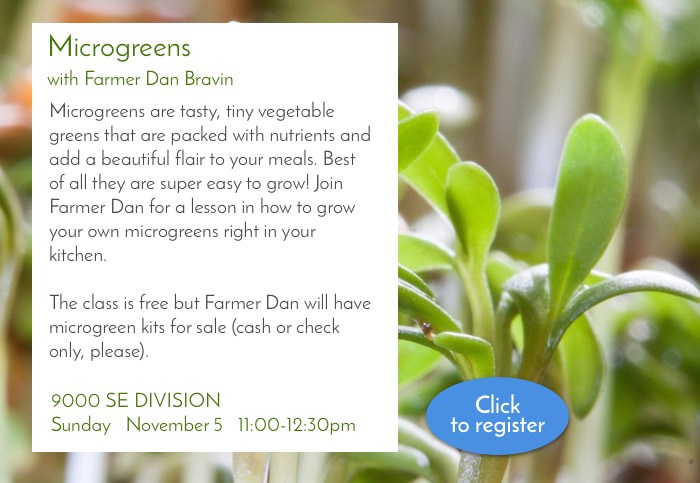
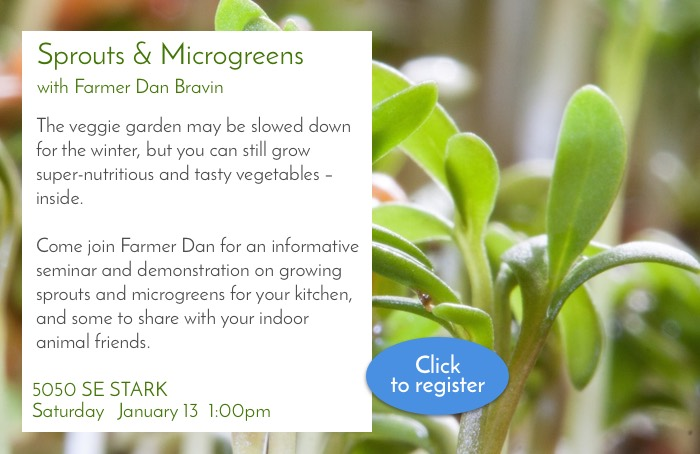
jan 3

diff --git a/current-news.html b/current-news.html
@@ -143,7 +143,7 @@
                                                                                         </div>
 
                                                                                         <div style="text-align: center; margin: 10px 0; padding: 0;font-family: arial,helvetica,sans-serif;font-size: 12px;">
-                                                                                            December 21, 2017
+                                                                                            January 3, 2018
                                                                                         </div>
                                                                                     </td>
                                                                                 </tr>
@@ -168,14 +168,14 @@
                                                                                 <tr>
                                                                                     <td style="border: 0px solid transparent; padding: 10px; color: #555555; font-family: Arial, Helvetica, sans-serif; font-size: 11px;">
                                                                                         <div class="noWrapImageWrapper" style="text-align: center; margin:0; padding: 0;">
-                                                                                            <a href="http://portlandnursery.com"><img src="http://portlandnursery.com/newsletter/images/happyholidays.jpg" alt="Container" style="margin: 0px; display: inline;" /></a>
+                                                                                            <a href="http://portlandnursery.com"><img src="http://portlandnursery.com/newsletter/images/seedstarting.jpg" alt="Container" style="margin: 0px; display: inline;" /></a>
                                                                                         </div>
                                                                                     </td>
                                                                                 </tr>
 
                                                                                 <tr>
                                                                                     <td style="border: 0px solid transparent; padding: 0; color: #555555;width: 100%;">
-                                                                                        <div class="noWrapImageWrapper" style="text-align: center; margin: 20px 0 0; padding: 0;"><img alt="" src="http://portlandnursery.com/newsletter/images/titles/happyholidays.jpg" style="margin: 0;display: inline;" /></div>
+                                                                                        <div class="noWrapImageWrapper" style="text-align: center; margin: 20px 0 0; padding: 0;"><img alt="" src="http://portlandnursery.com/newsletter/images/titles/seedstarting.jpg" style="margin: 0;display: inline;" /></div>
                                                                                     </td>
                                                                                 </tr>
                                                                             </tbody>
@@ -190,9 +190,20 @@
 																			<tr>
                                                                                     <td style="border: 0px solid transparent; padding: 0 20px; color: #555555;width: 100%;">
 
-											                                     <div style="font-family:'Josefin Sans',Arial, Helvetica, sans-serif;font-size:20px;font-weight: 300;color:#555555;line-height:1.5;padding:0 10px;text-align: left; margin: 15px 0;">During this holiday season - whether it is Happy Hannukah, Merry Christmas or Happy Holidays, we always wish the very best for our valued shoppers. Your love of plants is what we thrive on and we promise you the very best in all things plants in 2018.</div>
+											                                    <div style="font-family:'Josefin Sans',Arial, Helvetica, sans-serif;font-size:20px;font-weight: 300;color:#555555;line-height:1.5;padding:0 10px;text-align:center; margin: 0 0 15px 0;">By Corina Reynolds Stearns, Portland Nursery</div>
 
-											                                     <div style="font-family:'Josefin Sans',Arial, Helvetica, sans-serif;font-size:20px;font-weight: 300;color:#555555;line-height:1.5;padding:0 10px;text-align: left; margin: 15px 0;">And let's not forget, today is the Winter Solstice and spring is on its way!</div>
+    <div style="font-family:'Josefin Sans',Arial, Helvetica, sans-serif;font-size:20px;font-weight: 300;color:#555555;line-height:1.5;padding:0 10px;text-align: left; margin: 15px 0;">It’s the middle of winter, but we gardeners are itching to get digging. It’s easy to get excited when all the spring seed catalogs start arriving! But how practical is growing from seed vs. buying starts? It depends on how much time and space you want to dedicate. Growing from seed can save lots of money in the long run, but it requires a bit more work. </div>
+
+<div style="font-family:'Josefin Sans',Arial, Helvetica, sans-serif;font-size:20px;font-weight: 300;color:#555555;line-height:1.5;padding:0 10px;text-align: left; margin: 15px 0;">Some plants are easier to grow than others from seed. Some take a long time to germinate, or need to be grown indoors, under lights, until outside temps are warm enough to transplant. Seed packets will tell you if a seed must be started indoors or if it prefers to be direct-seeded into the garden. The instructions will often tell you to start seeds a certain number of weeks before the last frost date (which, for us, is around mid-April). For example, tomatoes and peppers, which take a long time to reach transplant size and require steady, warm temps, are started 6 to 8 weeks before last frost. Alternatively, plants like cucumbers and green beans grow very quickly, but do not like to be transplanted, so they are sown directly into the ground around late May, when the weather is warming up. Just read the seed packets—they’ll tell you what the plant wants.</div>
+
+<div style="font-family:'Josefin Sans',Arial, Helvetica, sans-serif;font-size:20px;font-weight: 300;color:#555555;line-height:1.5;padding:0 10px;text-align: left; margin: 15px 0;">Use potting soil to start seeds (my favorite is Edna’s Best brand), in recycled nursery pots or yogurt containers (poke holes in the bottom for drainage). You can buy inexpensive drip trays or seed-starting setups, too. It’s a good idea to use seeds that are no more than 2 years old. Plant 5 seeds for every one plant you desire. When the seedlings are all germinated, carefully thin out all but the healthiest-looking start. Once the plants have two sets of leaves, fertilize with an organic liquid fertilizer (such as Dr. Earth or fish emulsion), diluted to half-strength, once a week. </div>
+
+<div style="font-family:'Josefin Sans',Arial, Helvetica, sans-serif;font-size:20px;font-weight: 300;color:#555555;line-height:1.5;padding:0 10px;text-align: left; margin: 15px 0;">To start seeds inside, you must have a light source. Window light is not sufficient. I use simple 4 foot shop light fixtures with 2 fluorescent tubes—one warm-spectrum light (it may say “kitchen & bath”), and one cool-spectrum (“office”). Or buy tubes that are specifically listed for plants. Hang the lights over a shelf or table with chains so that you can raise the lights as the plants grow. Unless you are using very high-output lights, keep the light no more than 4” above the plants. The plants should not look leggy or like they are reaching toward the light. </div>
+
+<div style="font-family:'Josefin Sans',Arial, Helvetica, sans-serif;font-size:20px;font-weight: 300;color:#555555;line-height:1.5;padding:0 10px;text-align: left; margin: 15px 0;">Once the weather is warm enough, start to harden off seedlings. This means gradually exposing them to outdoor temperature and light conditions. Put them in a protected, shady spot in the daytime, and bring them back in at night, slowly exposing them to more light, exposure, and cooler evening temps. Depending on the weather, 2 weeks is usually an adequate amount of time for the plants to get used to harsher outdoor conditions, until they are finally ready to transplant. </div>
+
+
+<div style="font-family:'Josefin Sans',Arial, Helvetica, sans-serif;font-size:20px;font-weight: 300;color:#555555;line-height:1.5;padding:0 10px;text-align: left; margin: 15px 0;">Growing your own starts is so rewarding. Have fun nurturing those plant babies!</div>
 
 											                                  </td>
                                                                                 </tr>
@@ -228,9 +239,14 @@
                                                     <div style="align:center;" class="">
                                                         <table border="0" cellpadding="0" cellspacing="0" width="100%" style="table-layout: fixed;">
                                                             <tbody>
+	                                                          <tr>
+                                                                    <td>
+                                                                        <div class="noWrapImageWrapper" style="text-align: center; margin: 0; padding: 10px 20px;"> <img alt="" src="http://portlandnursery.com/newsletter/images/titles/seedstartingkits.jpg" style="margin: 0px;display: inline;" /></div>
+                                                                    </td>
+                                                                </tr>
                                                                 <tr>
                                                                     <td>
-                                                                        <div class="noWrapImageWrapper" style="text-align: center; margin: 0; padding: 10px 20px;"> <img alt="" src="http://portlandnursery.com/newsletter/images/hoursdec2017.jpg" style="margin: 0px;display: inline;" /></div>
+                                                                        <div class="noWrapImageWrapper" style="text-align: center; margin: 0; padding: 10px 20px;"> <img alt="" src="http://portlandnursery.com/newsletter/images/seedstartingkits.jpg" style="margin: 0px;display: inline;" /></div>
                                                                     </td>
                                                                 </tr>
                                                             </tbody>
@@ -255,6 +271,57 @@
                                                     </div>
                                                 </td>
                                             </tr><!-- End Divider Row -->
+                                             <!-- ==================== Divider Row ===================== -->
+                                            <tr>
+                                                <td>
+                                                    <div style="align:center;" class="">
+                                                        <table border="0" cellpadding="0" cellspacing="0" width="100%" style="table-layout: fixed;">
+                                                            <tbody>
+	                                                          <tr>
+                                                                    <td>
+                                                                        <div class="noWrapImageWrapper" style="text-align: center; margin: 0; padding: 10px 20px;"> <img alt="" src="http://portlandnursery.com/newsletter/images/titles/indoorplantingmonth.jpg" style="margin: 20px 0;display: inline;" /></div>
+                                                                    </td>
+                                                                </tr>
+                                                            </tbody>
+                                                        </table>
+                                                    </div>
+                                                </td>
+                                            </tr><!-- End Divider Row -->
+                                                                                      <!-- ==================== Divider Row ===================== -->
+
+                                            <tr>
+                                                <td>
+                                                    <div style="align:center;" class="">
+                                                        <table border="0" cellpadding="0" cellspacing="0" width="100%" style="table-layout: fixed;">
+                                                            <tbody>
+                                                                <tr>
+                                                                    <td>
+                                                                        <div class="noWrapImageWrapper" style="text-align: center; margin: 0; padding: 10px 20px;"><img alt="" src="http://portlandnursery.com/newsletter/images/houseplantsale2018b.jpg" style="margin: 0px;display: inline;" /></div>
+                                                                    </td>
+                                                                </tr>
+                                                            </tbody>
+                                                        </table>
+                                                    </div>
+                                                </td>
+                                            </tr><!-- End Divider Row -->
+                                            <!-- ==================== Divider Row ===================== -->
+
+                                            <tr>
+                                                <td style="border: 0px solid transparent; padding: 0; color: #555555;width: 100%;">
+                                                    <div style="text-align:center;" class="">
+                                                        <table border="0" cellpadding="0" cellspacing="0" width="100%" style="table-layout: fixed;">
+                                                            <tbody>
+                                                                <tr>
+                                                                    <td style="border: 0px solid transparent; padding: 0 20px; color: #555555;width: 100%;">
+                                                                        <div class="noWrapImageWrapper" style="border-top:1px solid #CCC;text-align: center; margin: 20px 0; padding: 0;"><img alt="" src="http://portlandnursery.com/images-layout/spacer_CCCCCC.gif" style="margin: 0;display: inline;" /></div>
+                                                                    </td>
+                                                                </tr>
+                                                            </tbody>
+                                                        </table>
+                                                    </div>
+                                                </td>
+                                            </tr><!-- End Divider Row -->
+
                                         <!-- ==================== Divider Row ===================== -->
 
                                             <tr>
@@ -264,7 +331,7 @@
                                                             <tbody>
                                                                 <tr>
                                                                     <td>
-                                                                        <div class="noWrapImageWrapper" style="text-align: center; margin: 0; padding: 10px 20px;">   <a href="http://portlandnursery.wufoo.com/forms/zk8uf2f0j5tbpk/" onclick="window.open(this.href,  null, 'height=483, =680, toolbar=0, location=0, status=1, scrollbars=1, resizable=1'); return false"><img alt="" src="http://portlandnursery.com/newsletter/images/classes/earlyvegetables.jpg" style="margin: 0px;display: inline;" /></a></div>
+                                                                        <div class="noWrapImageWrapper" style="text-align: center; margin: 0; padding: 10px 20px;">  <a href="http://portlandnursery.wufoo.com/forms/zrabv3y038df8s/" onclick="window.open(this.href,  null, 'height=483, =680, toolbar=0, location=0, status=1, scrollbars=1, resizable=1'); return false"><img alt="" src="http://portlandnursery.com/newsletter/images/classes/microgreens.jpg" style="margin: 0px;display: inline;" /></a></div>
                                                                     </td>
                                                                 </tr>
                                                             </tbody>
@@ -298,7 +365,7 @@
                                                             <tbody>
                                                                 <tr>
                                                                     <td>
-                                                                        <div class="noWrapImageWrapper" style="text-align: center; margin: 0; padding: 10px 20px;">   <a href="http://portlandnursery.wufoo.com/forms/z1dwl1s31o41y3m/" onclick="window.open(this.href,  null, 'height=483, =680, toolbar=0, location=0, status=1, scrollbars=1, resizable=1'); return false"><img alt="" src="http://portlandnursery.com/newsletter/images/classes/soilscience.jpg" style="margin: 0px;display: inline;" /></a></div>
+                                                                        <div class="noWrapImageWrapper" style="text-align: center; margin: 0; padding: 10px 20px;">    <a href="http://portlandnursery.wufoo.com/forms/z1y7m9b11baaicn/" onclick="window.open(this.href,  null, 'height=483, =680, toolbar=0, location=0, status=1, scrollbars=1, resizable=1'); return false"><img alt="" src="http://portlandnursery.com/newsletter/images/classes/introcacti.jpg" style="margin: 0px;display: inline;" /></a></div>
                                                                     </td>
                                                                 </tr>
                                                             </tbody>
@@ -323,6 +390,41 @@
                                                     </div>
                                                 </td>
                                             </tr><!-- End Divider Row -->
+                                                                                    <!-- ==================== Divider Row ===================== -->
+
+                                            <tr>
+                                                <td>
+                                                    <div style="align:center;" class="">
+                                                        <table border="0" cellpadding="0" cellspacing="0" width="100%" style="table-layout: fixed;">
+                                                            <tbody>
+                                                                <tr>
+                                                                    <td>
+                                                                        <div class="noWrapImageWrapper" style="text-align: center; margin: 0; padding: 10px 20px;">    <a href="http://portlandnursery.wufoo.com/forms/z1s2mqf00x6e5xy/" onclick="window.open(this.href,  null, 'height=483, =680, toolbar=0, location=0, status=1, scrollbars=1, resizable=1'); return false"><img alt="" src="http://portlandnursery.com/newsletter/images/classes/repotting.jpg" style="margin: 0px;display: inline;" /></a></div>
+                                                                    </td>
+                                                                </tr>
+                                                            </tbody>
+                                                        </table>
+                                                    </div>
+                                                </td>
+                                            </tr><!-- End Divider Row -->
+                                             <!-- ==================== Divider Row ===================== -->
+
+                                            <tr>
+                                                <td style="border: 0px solid transparent; padding: 0; color: #555555;width: 100%;">
+                                                    <div style="text-align:center;" class="">
+                                                        <table border="0" cellpadding="0" cellspacing="0" width="100%" style="table-layout: fixed;">
+                                                            <tbody>
+                                                                <tr>
+                                                                    <td style="border: 0px solid transparent; padding: 0 20px; color: #555555;width: 100%;">
+                                                                        <div class="noWrapImageWrapper" style="border-top:1px solid #CCC;text-align: center; margin: 20px 0; padding: 0;"><img alt="" src="http://portlandnursery.com/images-layout/spacer_CCCCCC.gif" style="margin: 0;display: inline;" /></div>
+                                                                    </td>
+                                                                </tr>
+                                                            </tbody>
+                                                        </table>
+                                                    </div>
+                                                </td>
+                                            </tr><!-- End Divider Row -->
+
                                     <!-- ==================== Divider Row ===================== -->
 
                                             <tr>
@@ -375,40 +477,6 @@
                                                     </div>
                                                 </td>
                                             </tr><!-- End Divider Row -->
-                                          <!-- ==================== Divider Row ===================== -->
-
-                                            <tr>
-                                                <td>
-                                                    <div style="align:center;" class="">
-                                                        <table border="0" cellpadding="0" cellspacing="0" width="100%" style="table-layout: fixed;">
-                                                            <tbody>
-                                                                <tr>
-                                                                    <td>
-                                                                        <div class="noWrapImageWrapper" style="text-align: center; margin: 0; padding: 10px 20px;"><img alt="" src="http://portlandnursery.com/newsletter/images/houseplantsale2018a.jpg" style="margin: 0px;display: inline;" /></div>
-                                                                    </td>
-                                                                </tr>
-                                                            </tbody>
-                                                        </table>
-                                                    </div>
-                                                </td>
-                                            </tr><!-- End Divider Row -->
-                                            <!-- ==================== Divider Row ===================== -->
-
-                                            <tr>
-                                                <td style="border: 0px solid transparent; padding: 0; color: #555555;width: 100%;">
-                                                    <div style="text-align:center;" class="">
-                                                        <table border="0" cellpadding="0" cellspacing="0" width="100%" style="table-layout: fixed;">
-                                                            <tbody>
-                                                                <tr>
-                                                                    <td style="border: 0px solid transparent; padding: 0 20px; color: #555555;width: 100%;">
-                                                                        <div class="noWrapImageWrapper" style="border-top:1px solid #CCC;text-align: center; margin: 20px 0; padding: 0;"><img alt="" src="http://portlandnursery.com/images-layout/spacer_CCCCCC.gif" style="margin: 0;display: inline;" /></div>
-                                                                    </td>
-                                                                </tr>
-                                                            </tbody>
-                                                        </table>
-                                                    </div>
-                                                </td>
-                                            </tr><!-- End Divider Row -->
 
                                             <!-- ==================== Classes Row ===================== -->
 
@@ -437,17 +505,6 @@
                                                             <tr>
                                                                 <td style="border: 0px solid transparent; padding: 10px; color: #555555; font-family: Arial, Helvetica, sans-serif; font-size: 11px;">
 
-                    <div style="font-family:'Josefin Sans',Arial, Helvetica, sans-serif;font-size:20px;font-weight: 300;color:#555555;line-height:130%;padding: 0;margin-bottom: 15px;padding: 0 20px;">
-                                                                        <strong>What to Do in the January Vegetable Garden</strong><br />9000 SE DIVISION &bull; Saturday &bull; January 6 &bull; 11:00-12:30pm<br>
-                    <a href="http://portlandnursery.wufoo.com/forms/zx5gv3v170qtq7/" onclick="window.open(this.href,  null, 'height=483, =680, toolbar=0, location=0, status=1, scrollbars=1, resizable=1'); return false">Click here to register for this class.</a></div>
-
-<div style="font-family:'Josefin Sans',Arial, Helvetica, sans-serif;font-size:20px;font-weight: 300;color:#555555;line-height:130%;padding: 0;margin-bottom: 15px;padding: 0 20px;">
-                                                                        <strong>Garden Science: Basics in Soil Science</strong><br />5050 SE STARK &bull; Sunday &bull; January 7 &bull; 1:00pm<br /><a href="http://portlandnursery.wufoo.com/forms/z1dwl1s31o41y3m/" onclick="window.open(this.href,  null, 'height=483, =680, toolbar=0, location=0, status=1, scrollbars=1, resizable=1'); return false">Click here to register for this class.</a></div>
-
-                    <div style="font-family:'Josefin Sans',Arial, Helvetica, sans-serif;font-size:20px;font-weight: 300;color:#555555;line-height:130%;padding: 0;margin-bottom: 15px;padding: 0 20px;">
-                                                                        <strong>Starting Vegetables Early: Part 1</strong><br />9000 SE DIVISION &bull; Sunday &bull; January 7 &bull; 1:00-2:30pm<br>
-                    <a href="http://portlandnursery.wufoo.com/forms/zk8uf2f0j5tbpk/" onclick="window.open(this.href,  null, 'height=483, =680, toolbar=0, location=0, status=1, scrollbars=1, resizable=1'); return false">Click here to register for this class.</a></div>
-
  <div style="font-family:'Josefin Sans',Arial, Helvetica, sans-serif;font-size:24px;font-weight: 300;color:#555555;line-height:130%;padding: 0;margin-bottom: 15px;padding: 0 20px;">
                                                                         <strong>Portland Nursery Annual Houseplant Sale</strong><br />
 																		30% off all houseplants and decorative pots<br>
@@ -473,11 +530,6 @@
 
 <div style="font-family:'Josefin Sans',Arial, Helvetica, sans-serif;font-size:20px;font-weight: 300;color:#555555;line-height:130%;padding: 0;margin-bottom: 15px;padding: 0 20px;">
                                                                         <strong>Houseplants for the black of thumb</strong><br />5050 SE STARK &bull; Sunday &bull; January 14 &bull; 1:00pm<br /><a href="http://portlandnursery.wufoo.com/forms/z1y59lwz0zypfeg/" onclick="window.open(this.href,  null, 'height=483, =680, toolbar=0, location=0, status=1, scrollbars=1, resizable=1'); return false">Click here to register for this class.</a></div>
-
-
-                    <div style="font-family:'Josefin Sans',Arial, Helvetica, sans-serif;font-size:20px;font-weight: 300;color:#555555;line-height:130%;padding: 0;margin-bottom: 15px;padding: 0 20px;">
-                                                                        <strong>Kokedama Workshop</strong><br />9000 SE DIVISION &bull; Sunday &bull; January 14 &bull; 1:00-2:30pm<br>
-                    <a href="http://portlandnursery.wufoo.com/forms/z12ov5bj0uc8qk4/" onclick="window.open(this.href,  null, 'height=483, =680, toolbar=0, location=0, status=1, scrollbars=1, resizable=1'); return false">Click here to register for this class.</a></div>
 
                     <div style="font-family:'Josefin Sans',Arial, Helvetica, sans-serif;font-size:20px;font-weight: 300;color:#555555;line-height:130%;padding: 0;margin-bottom: 15px;padding: 0 20px;">
                                                                         <strong>Orchids 101</strong><br />9000 SE DIVISION &bull; Saturday &bull; January 20 &bull; 11:00-12:30pm<br>
@@ -520,12 +572,6 @@
 
 <div style="font-family:'Josefin Sans',Arial, Helvetica, sans-serif;font-size:20px;font-weight: 300;color:#555555;line-height:130%;padding: 0;margin-bottom: 15px;padding: 0 20px;">
                                                                         <strong>Indoor Herb Gardening</strong><br />5050 SE STARK &bull; Sunday &bull; January 28 &bull; 1:00pm<br /><a href="http://portlandnursery.wufoo.com/forms/z10cvjs41u1hnc6/" onclick="window.open(this.href,  null, 'height=483, =680, toolbar=0, location=0, status=1, scrollbars=1, resizable=1'); return false">Click here to register for this class.</a></div>
-
-
-                    <div style="font-family:'Josefin Sans',Arial, Helvetica, sans-serif;font-size:20px;font-weight: 300;color:#555555;line-height:130%;padding: 0;margin-bottom: 15px;padding: 0 20px;">
-                                                                        <strong>Staghorn Fern Mounting Workshop</strong><br />9000 SE DIVISION &bull; Sunday &bull; January 28 &bull; 1:00-2:30pm<br>
-                    <a href="http://portlandnursery.wufoo.com/forms/z1fbd1800jzh6r5/" onclick="window.open(this.href,  null, 'height=483, =680, toolbar=0, location=0, status=1, scrollbars=1, resizable=1'); return false">Click here to register for this class.</a></div>
-
 
                                                                 </td>
                                                             </tr>
